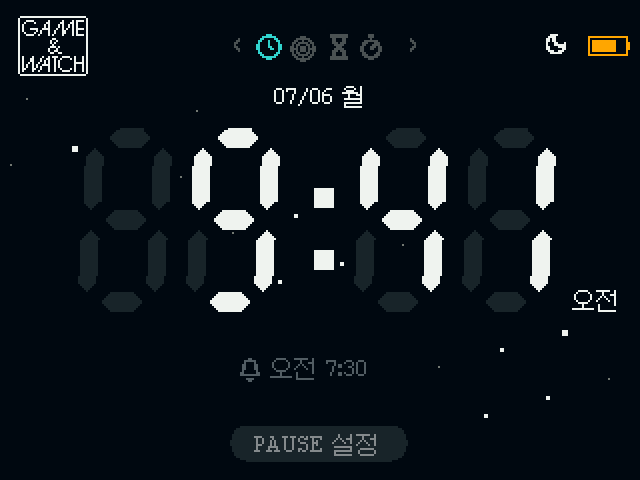
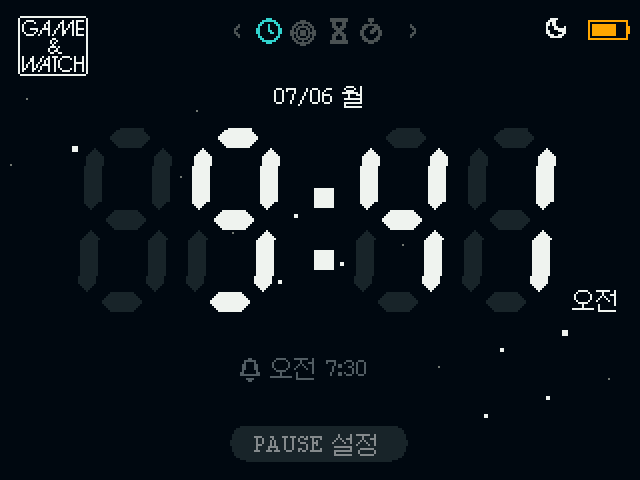
feat(clock): stopwatch is one BIG MM:SS.cc display; top bar contents top-aligned
- stopwatch renders all six digits (minutes:seconds.centiseconds) as
  one scaled-down segment display with colon + baseline decimal point,
  ghost treatment intact — physically big, no side annotation. Works
  on the pixel/dot faces too
- pager icons, chevrons, moon and battery now top-align with the logo's
  top edge (they sat visibly low)

Changed region(s): [[0.3438, 0.0312, 0.5938, 0.125], [0.8438, 0.0312, 1.0, 0.125], [0.625, 0.0625, 0.6562, 0.0938]]

diff --git a/Core/Src/retro-go/rg_clock.c b/Core/Src/retro-go/rg_clock.c
@@ -447,16 +447,16 @@ static void draw_topbar(clock_mode_t mode)
 {
     const clock_theme_t *t = TH();
     odroid_overlay_draw_logo(9, 8, RG_LOGO_GNW, t->ink);
-    odroid_overlay_draw_battery(odroid_input_read_battery(), GW_LCD_WIDTH - 26, 18);
-    if (s_dnd) draw_icon(&PIX_MOON, GW_LCD_WIDTH - 48, 17, t->ink);
+    odroid_overlay_draw_battery(odroid_input_read_battery(), GW_LCD_WIDTH - 26, 10);
+    if (s_dnd) draw_icon(&PIX_MOON, GW_LCD_WIDTH - 48, 9, t->ink);
     /* No text title — the mode reads from the icon pager alone (current one
      * lit in the accent), with <> strokes hinting the L/R switch. Steady,
      * nothing appearing/disappearing. */
     uint16_t dim = mix565(t->scr, t->ink, 5);
     int pw = MODE_COUNT*17 - 4;
-    int dx = (GW_LCD_WIDTH - pw) / 2, iy = 17;
-    draw_icon(&PIX_CHEV_L, dx - 15, 19, dim);
-    draw_icon(&PIX_CHEV_R, dx + pw + 9, 19, dim);
+    int dx = (GW_LCD_WIDTH - pw) / 2, iy = 9;   /* top-aligned with the battery */
+    draw_icon(&PIX_CHEV_L, dx - 15, 12, dim);
+    draw_icon(&PIX_CHEV_R, dx + pw + 9, 12, dim);
     for (int i = 0; i < MODE_COUNT; i++, dx += 17) {
         uint16_t c = (i == (int)mode) ? t->alarm : dim;
         switch (i) {
@@ -621,17 +621,56 @@ static void render_timer(uint32_t now)
     render_mmss(s_timer.remaining_ms, TH()->ink, s_timer.state != RUN_RUNNING ? true : colon);
 }
 
+/* Stopwatch: MM:SS.cc as ONE big six-digit display — physically big, not a
+ * small side annotation. Segments scale down so all six digits + colon +
+ * decimal point fit the width; the ghost treatment stays. */
 static void render_stopwatch(uint32_t now)
 {
     (void)now;
     const clock_theme_t *t = TH();
-    render_mmss(s_watch.elapsed_ms, t->ink, true);
-    /* centiseconds in the AM/PM slot: MM:SS big + .cc small = 6-digit read */
-    char cs[8]; snprintf(cs, sizeof cs, ".%02u", (unsigned)((s_watch.elapsed_ms / 10) % 100));
+    uint16_t col = t->ink, ghost = mix565(t->scr, t->ink, 2);
+    uint32_t ms = s_watch.elapsed_ms;
+    int d[6] = { (int)((ms/60000) % 100) / 10, (int)((ms/60000) % 100) % 10,
+                 (int)((ms/1000)  % 60)  / 10, (int)((ms/1000)  % 60)  % 10,
+                 (int)((ms/10)    % 100) / 10, (int)((ms/10)    % 100) % 10 };
     digit_face_t face = cur_face();
-    int x = (GW_LCD_WIDTH + big_time_width(face)) / 2 + 6;
-    int yb = (face == FACE_SEG7) ? SEG_Y + SEG_H - 12 : PIX_Y + 7*PIX_PX - 12;
-    i18n_draw_text_line(x, yb, GW_LCD_WIDTH - x, cs, t->alarm, CLOCK_BLACK, 1);
+
+    if (face == FACE_SEG7) {
+        const int w = 32, h = 68, tt = 8, g = 6, sep = tt + 2*g;
+        int total = 6*w + 3*g + 2*sep;
+        int x = (GW_LCD_WIDTH - total) / 2, y = SEG_Y + 12;
+        for (int i = 0; i < 6; i++) {
+            draw_seg_digit(8, x, y, w, h, tt, ghost);
+            draw_seg_digit(d[i], x, y, w, h, tt, col);
+            x += w + ((i == 1 || i == 3) ? 0 : g);
+            if (i == 1) {           /* colon */
+                odroid_overlay_draw_fill_rect(x+g, y+h/3, tt, tt, col);
+                odroid_overlay_draw_fill_rect(x+g, y+2*h/3, tt, tt, col);
+                x += sep;
+            } else if (i == 3) {    /* decimal point, at the baseline */
+                odroid_overlay_draw_fill_rect(x+g, y+h-tt, tt, tt, col);
+                x += sep;
+            }
+        }
+    } else {
+        bool dot = (face == FACE_DOT);
+        const int px = 7, dw = 5*px, g = px, sep = px*3;
+        int total = 6*dw + 3*g + 2*sep;
+        int x = (GW_LCD_WIDTH - total) / 2, y = PIX_Y + 10;
+        for (int i = 0; i < 6; i++) {
+            draw_pix_digit(PIX_ALL, x, y, px, ghost, dot);
+            draw_pix_digit(d[i], x, y, px, col, dot);
+            x += dw + ((i == 1 || i == 3) ? 0 : g);
+            if (i == 1) {
+                odroid_overlay_draw_fill_rect(x+px, y+2*px, px, px, col);
+                odroid_overlay_draw_fill_rect(x+px, y+4*px, px, px, col);
+                x += sep;
+            } else if (i == 3) {
+                odroid_overlay_draw_fill_rect(x+px, y+6*px, px, px, col);
+                x += sep;
+            }
+        }
+    }
 }
 
 /* ---- input ------------------------------------------------------------ */
